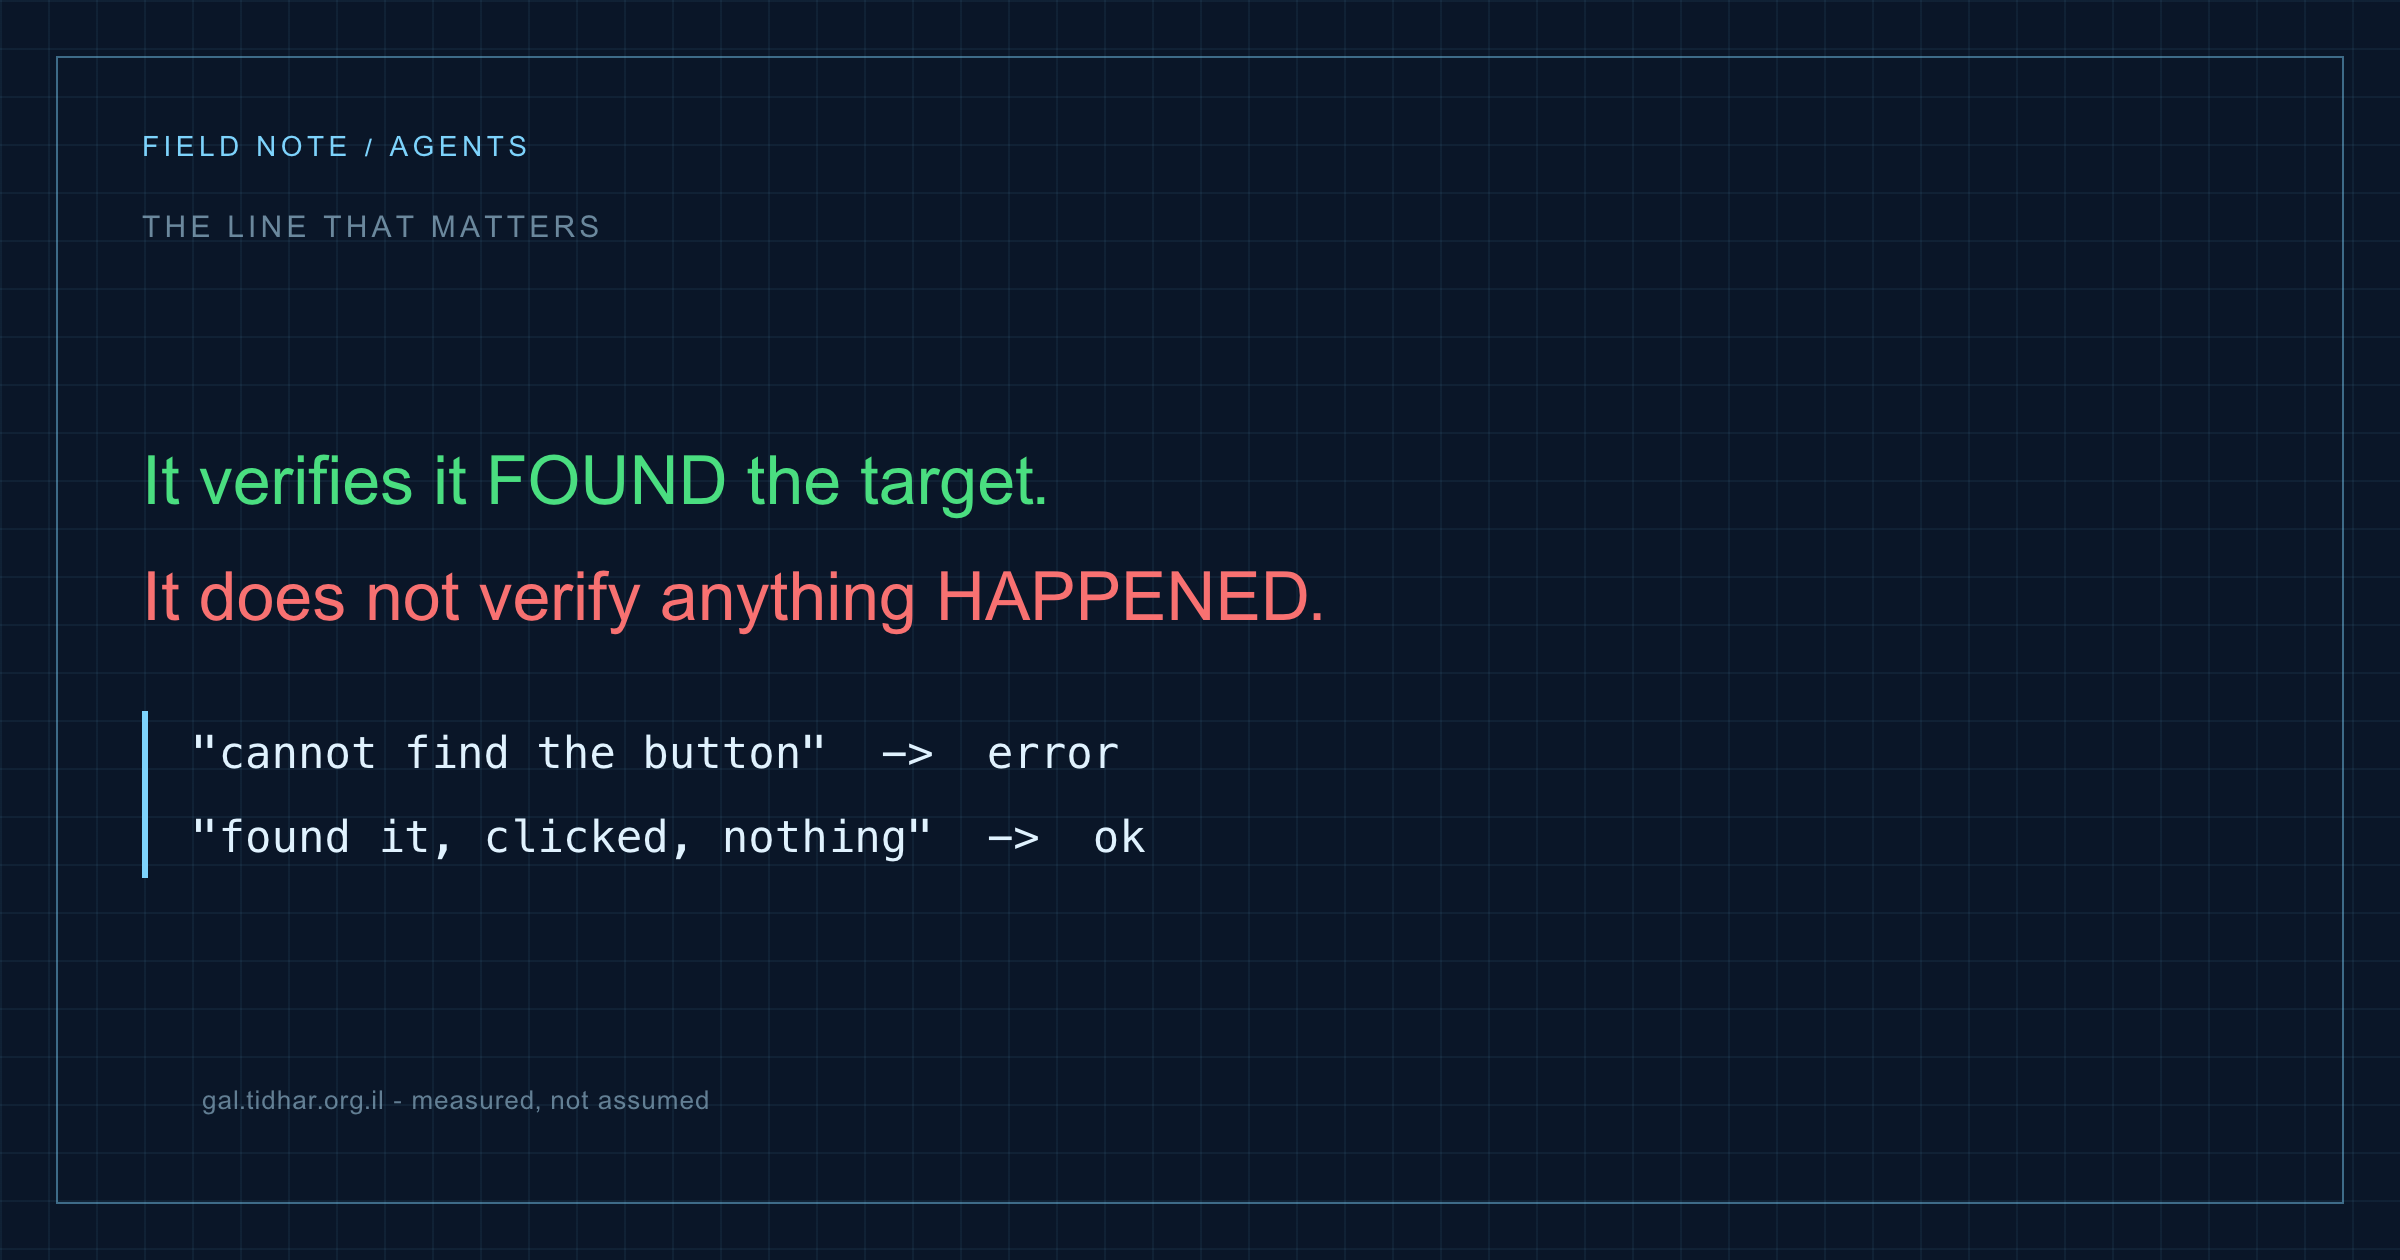
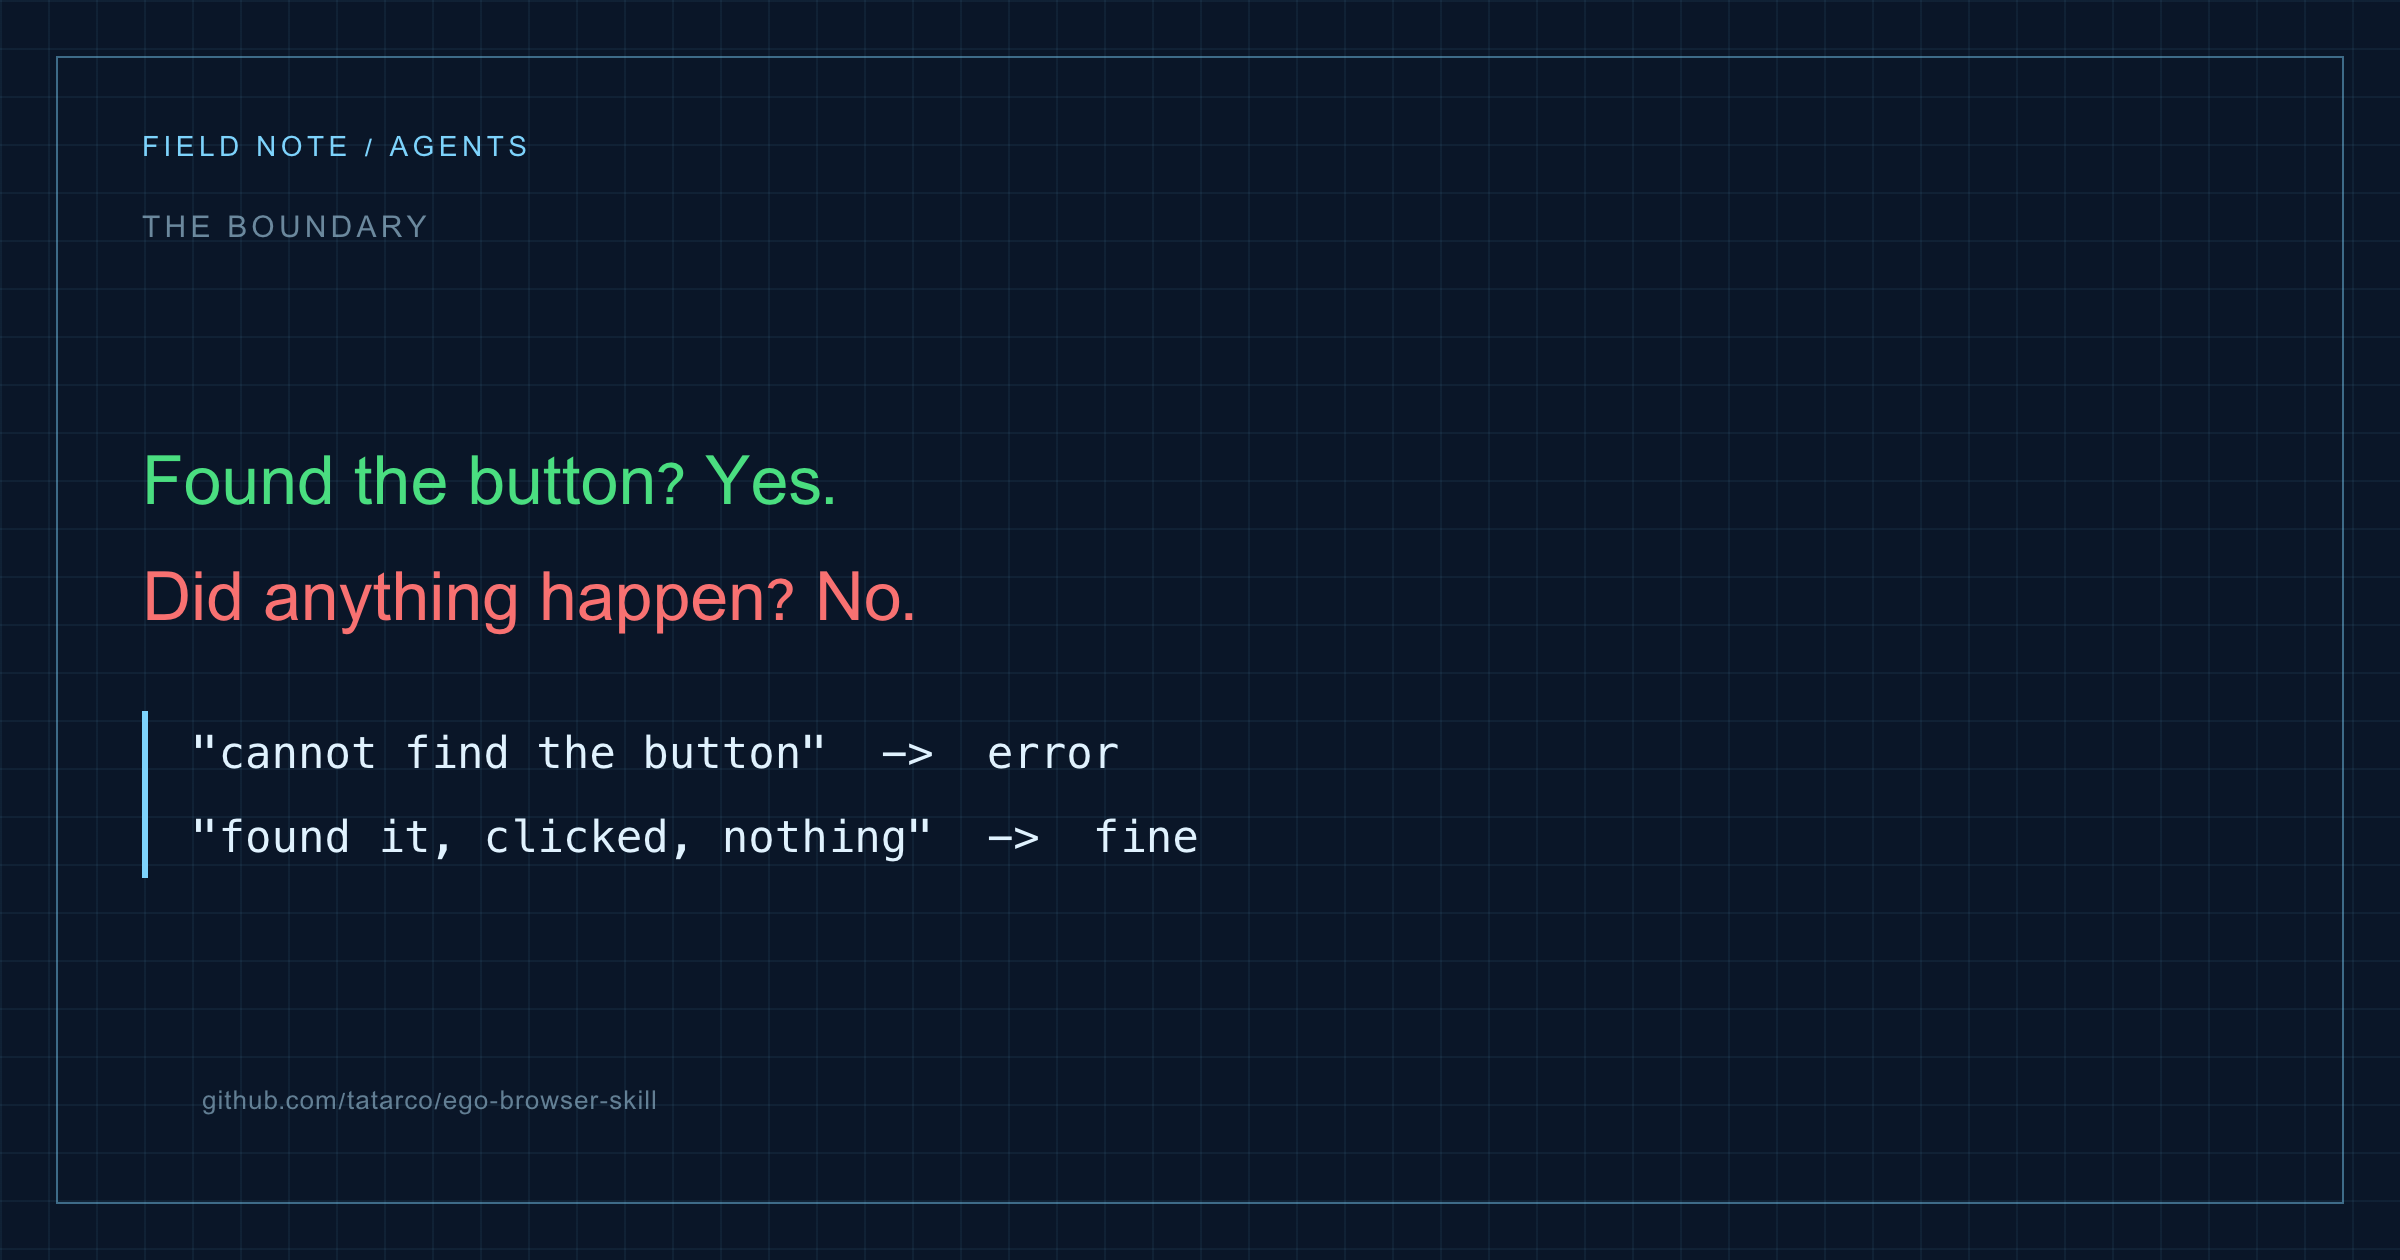
blog: rewrite hero copy around the ghost-clicks arc, natural Hebrew

diff --git a/blog/silent-failures/gen.js b/blog/silent-failures/gen.js
@@ -4,56 +4,60 @@ const fs = require('fs'), path = require('path'), OUT = __dirname
 const S = {
   en: {
     dir: 'ltr', eyebrow: 'FIELD NOTE / AGENTS',
-    claim: 'Claude clicked the button.<br>The button was not clicked.<br>Claude said it went fine.',
-    claimSub: 'Five ways an agent action silently does nothing - and the one line that catches all of them.',
-    rHead: 'WHAT THE TOOL SAID vs WHAT THE PAGE SAW',
+    arc: ['One comment asked the right question.', 'I found ghost clicks.', 'So I measured ego lite properly.'],
+    arcSub: 'The agent clicks. The page receives nothing. The tool reports success.',
+    claim: 'Ghost clicks.',
+    claimSub: 'Claude clicked the button. The button was not clicked. The tool said everything went fine.',
+    rHead: 'What the tool reported vs what the page actually got',
     rows: [
-      ['click, covered by a transparent overlay', 'ok', '0'],
-      ['click, pointer-events: none', 'ok', '0'],
-      ['click on empty coordinates', 'ok', '0'],
-      ['type into a disabled field', 'ok', 'empty'],
-      ['selector that does not exist', 'THREW', '-'],
+      ['click under a transparent overlay', 'fine', '0'],
+      ['click on pointer-events: none', 'fine', '0'],
+      ['click on empty coordinates', 'fine', '0'],
+      ['type into a locked field', 'fine', 'empty'],
+      ['selector that does not exist', 'ERROR', '-'],
     ],
-    rCol: ['ACTION', 'RETURNED', 'LANDED'],
-    verdict: 'ego lite\'s click is<br>Playwright\'s force: true,<br>always on.',
-    verdictSub: 'Playwright checks attached, visible, stable, enabled, receives events. force skips all five. That is the default here.',
-    lineHead: 'THE LINE THAT MATTERS',
-    lineA: 'It verifies it FOUND the target.',
-    lineB: 'It does not verify anything HAPPENED.',
-    lineC: '"cannot find the button"  ->  error\n"found it, clicked, nothing"  ->  ok',
-    phantomHead: 'THE PHANTOM EDIT',
-    phantomBody: 'Typing into a disabled field left the value empty - but the page still received synthetic input and change events. The app can react to a change that never happened. The agent is told nothing.',
-    fixHead: 'THE FIX IS ONE LINE',
-    fixCode: 'const before = await js(`window.__clicks`)\nawait click(\'#target\')\nconst after  = await js(`window.__clicks`)\n// after === before  ->  it did not land',
-    fixSub: 'Do not assert the action succeeded. Assert something changed.',
-    foot: 'gal.tidhar.org.il - measured, not assumed',
+    rCol: ['ACTION', 'TOOL SAID', 'ACTUALLY'],
+    verdict: 'An agent browser\'s click is<br>Playwright\'s force: true.<br>Always on.',
+    verdictSub: 'Playwright checks that the element is attached, visible, stable, enabled, and really receives the click. force skips all of it.',
+    lineHead: 'THE BOUNDARY',
+    lineA: 'Found the button? Yes.',
+    lineB: 'Did anything happen? No.',
+    lineC: '"cannot find the button"  ->  error\n"found it, clicked, nothing"  ->  fine',
+    phantomHead: 'AN EDIT THAT NEVER HAPPENED',
+    phantomBody: 'I typed into a locked field. The value stayed empty - but the page still got input and change events. An app listening for those will light up its Save button over an edit that never happened.',
+    fixHead: 'THE FIX: ONE LINE',
+    fixCode: 'const before = await js(`window.__clicks`)\nawait click(\'#target\')\nconst after  = await js(`window.__clicks`)\n// after === before  ->  it never landed',
+    fixSub: 'Do not ask whether the action succeeded. Ask whether anything changed.',
+    foot: 'github.com/tatarco/ego-browser-skill',
   },
   he: {
     dir: 'rtl', eyebrow: 'הערת שטח / אייג׳נטים',
-    claim: 'קלוד לחץ על הכפתור.<br>הכפתור לא נלחץ.<br>קלוד אמר שהכל בסדר.',
-    claimSub: 'חמש דרכים שבהן פעולה של אייג׳נט לא עושה כלום בשקט - ושורה אחת שתופסת את כולן.',
-    rHead: 'מה הכלי דיווח מול מה שהדף באמת ראה',
+    arc: ['תגובה אחת שאלה בדיוק את השאלה הנכונה.', 'מצאתי לחיצות רפאים.', 'אז מדדתי את ego lite ברצינות.'],
+    arcSub: 'האייג׳נט לוחץ, הדף לא מקבל כלום, והכלי מדווח שהכל עבר בהצלחה.',
+    claim: 'לחיצות רפאים.',
+    claimSub: 'קלוד לחץ על הכפתור. הכפתור לא נלחץ. הכלי אמר שהכל תקין.',
+    rHead: 'מה הכלי דיווח מול מה שהדף באמת קיבל',
     rows: [
-      ['לחיצה מתחת ל-overlay שקוף', 'בסדר', '0'],
-      ['לחיצה על pointer-events: none', 'בסדר', '0'],
-      ['לחיצה על קואורדינטות ריקות', 'בסדר', '0'],
-      ['כתיבה לשדה disabled', 'בסדר', 'ריק'],
-      ['סלקטור שלא קיים', 'זרק שגיאה', '-'],
+      ['לחיצה מתחת ל-overlay שקוף', 'תקין', '0'],
+      ['לחיצה על pointer-events: none', 'תקין', '0'],
+      ['לחיצה על קואורדינטות ריקות', 'תקין', '0'],
+      ['כתיבה לשדה נעול', 'תקין', 'ריק'],
+      ['סלקטור שלא קיים', 'שגיאה', '-'],
     ],
-    rCol: ['פעולה', 'הוחזר', 'נחת'],
-    verdict: 'הקליק של ego lite<br>הוא force: true<br>של Playwright, תמיד דלוק.',
-    verdictSub: 'Playwright בודק מחובר, נראה, יציב, מאופשר, ומקבל אירועים. force מדלג על כל החמישה. פה זו ברירת המחדל.',
-    lineHead: 'הגבול האמיתי',
-    lineA: 'הוא מאמת שהוא מצא את המטרה.',
-    lineB: 'הוא לא מאמת שקרה משהו.',
-    lineC: '"לא מצאתי את הכפתור"  ->  שגיאה\n"מצאתי, לחצתי, כלום"  ->  בסדר',
-    phantomHead: 'העריכה שלא קרתה',
-    phantomBody: 'כתיבה לשדה disabled השאירה אותו ריק - אבל הדף כן קיבל אירועי input ו-change סינתטיים. האפליקציה יכולה להגיב לשינוי שמעולם לא קרה. האייג׳נט לא יודע כלום.',
-    fixHead: 'התיקון הוא שורה אחת',
+    rCol: ['פעולה', 'הכלי אמר', 'בפועל'],
+    verdict: 'הקליק של דפדפן אייג׳נטי<br>הוא force: true של Playwright.<br>תמיד דלוק.',
+    verdictSub: 'Playwright בודק לפני כל פעולה שהאלמנט מחובר, נראה, יציב, מאופשר, ושהוא באמת מקבל את הלחיצה. force מדלג על הכל.',
+    lineHead: 'איפה עובר הגבול',
+    lineA: 'מצא את הכפתור? כן.',
+    lineB: 'קרה משהו? לא.',
+    lineC: '"לא מצאתי את הכפתור"  ->  שגיאה\n"מצאתי, לחצתי, כלום"  ->  תקין',
+    phantomHead: 'עריכה שלא קרתה',
+    phantomBody: 'כתבתי לשדה נעול. הערך נשאר ריק, אבל הדף בכל זאת קיבל אירועי input ו-change. אפליקציה שמאזינה להם תדליק כפתור שמירה על עריכה שלא היתה.',
+    fixHead: 'התיקון: שורה אחת',
     fixCode: 'const before = await js(`window.__clicks`)\nawait click(\'#target\')\nconst after  = await js(`window.__clicks`)\n// after === before  ->  זה לא נחת',
-    fixSub: 'לא לבדוק שהפעולה הצליחה. לבדוק שמשהו השתנה.',
-    foot: 'gal.tidhar.org.il - נמדד, לא הונח',
-  },
+    fixSub: 'לא לשאול אם הפעולה הצליחה. לשאול אם משהו השתנה.',
+    foot: 'github.com/tatarco/ego-browser-skill',
+  }
 }
 
 const BASE = `
@@ -73,12 +77,13 @@ const page = (lang, body, extra='') =>
 
 const designs = {
   1: t => `<div class="frame"><div class="eyebrow">${t.eyebrow}</div>
-    <div class="cw"><div class="claim">${t.claim}</div><div class="csub">${t.claimSub}</div></div>
+    <div class="cw"><div class="arc">${t.arc.map((l,i)=>`<div class="arcl a${i}">${l}</div>`).join('')}</div>
+    <div class="csub">${t.arcSub}</div></div>
     <div class="foot">${t.foot}</div></div>`,
   2: t => `<div class="frame"><div class="eyebrow">${t.eyebrow}</div>
     <div class="rh">${t.rHead}</div>
     <table class="tbl"><thead><tr>${t.rCol.map(c=>`<th>${c}</th>`).join('')}</tr></thead><tbody>
-    ${t.rows.map(([a,b,c])=>`<tr><td class="act">${a}</td><td class="${b.match(/THREW|זרק/)?'thr':'ok'}">${b}</td><td class="land">${c}</td></tr>`).join('')}
+    ${t.rows.map(([a,b,c])=>`<tr><td class="act">${a}</td><td class="${b.match(/ERROR|שגיאה/)?'thr':'ok'}">${b}</td><td class="land">${c}</td></tr>`).join('')}
     </tbody></table>
     <div class="foot">${t.foot}</div></div>`,
   3: t => `<div class="frame"><div class="eyebrow">${t.eyebrow}</div>
@@ -95,6 +100,9 @@ const designs = {
     <div class="phev">input <span class="syn">synthetic</span> &nbsp; change <span class="syn">synthetic</span></div>
     <div class="phb">${t.phantomBody}</div></div>
     <div class="foot">${t.foot}</div></div>`,
+  7: t => `<div class="frame"><div class="eyebrow">${t.eyebrow}</div>
+    <div class="gw"><div class="gclaim">${t.claim}</div><div class="gsub">${t.claimSub}</div></div>
+    <div class="foot">${t.foot}</div></div>`,
   6: t => `<div class="frame"><div class="eyebrow">${t.eyebrow}</div>
     <div class="fh">${t.fixHead}</div>
     <pre class="code">${t.fixCode}</pre>
@@ -104,8 +112,9 @@ const designs = {
 
 const CSS = {
   1:`.cw{flex:1;display:flex;flex-direction:column;justify-content:center;padding-bottom:36px}
-     .claim{font-size:52px;line-height:1.32;font-weight:600;color:#e0f2fe}
-     .csub{margin-top:28px;font-size:22px;color:#7dd3fc;line-height:1.6;max-width:26em}`,
+     .arcl{font-size:42px;line-height:1.42;font-weight:600}
+     .a0{color:#7dd3fc} .a1{color:#f87171} .a2{color:#e0f2fe}
+     .csub{margin-top:30px;font-size:21px;color:rgba(186,230,253,.7);line-height:1.6;max-width:30em}`,
   2:`.rh{margin-top:20px;font-size:19px;color:#e0f2fe;letter-spacing:.02em}
      .tbl{flex:1;width:100%;border-collapse:collapse;margin:20px 0 46px;font-size:20px}
      .tbl th{font-size:13px;letter-spacing:.12em;color:rgba(186,230,253,.55);text-transform:uppercase;
@@ -134,6 +143,9 @@ const CSS = {
        border:1px solid rgba(125,211,252,.35);background:rgba(0,0,0,.28);padding:22px 26px;
        direction:ltr;unicode-bidi:isolate;text-align:start;white-space:pre}
      .fsub{font-size:21px;color:#fef08a;margin-bottom:38px}`,
+  7:`.gw{flex:1;display:flex;flex-direction:column;justify-content:center;padding-bottom:36px}
+     .gclaim{font-size:96px;line-height:1.1;font-weight:600;color:#f87171;letter-spacing:.01em}
+     .gsub{margin-top:34px;font-size:26px;color:#e0f2fe;line-height:1.55;max-width:24em}`,
 }
 
 for (const n of Object.keys(designs))
